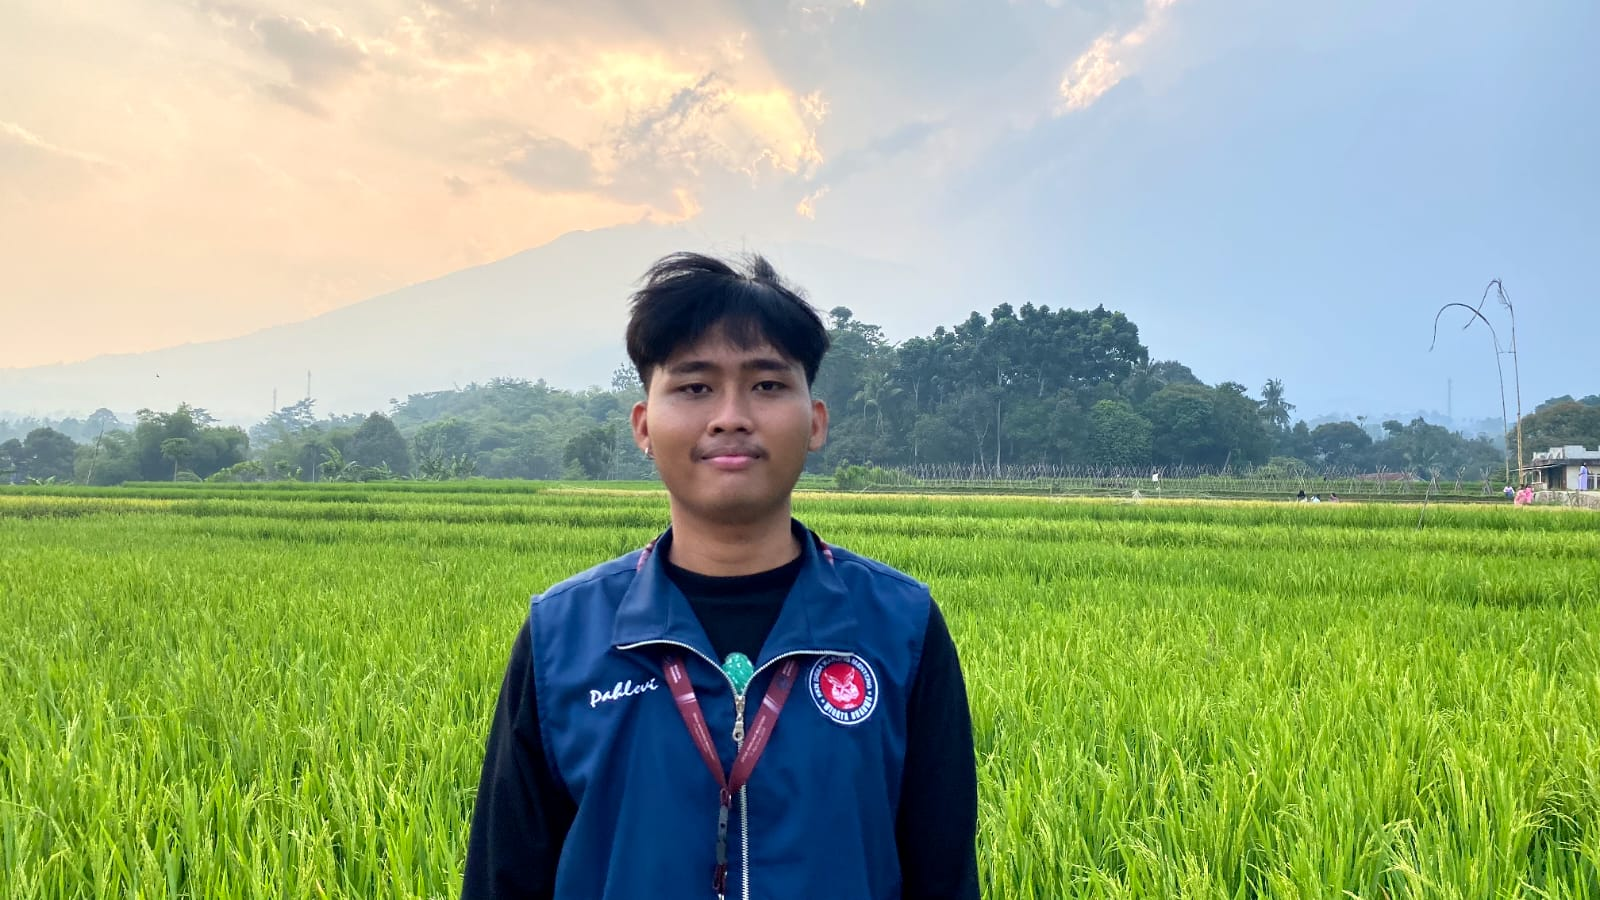
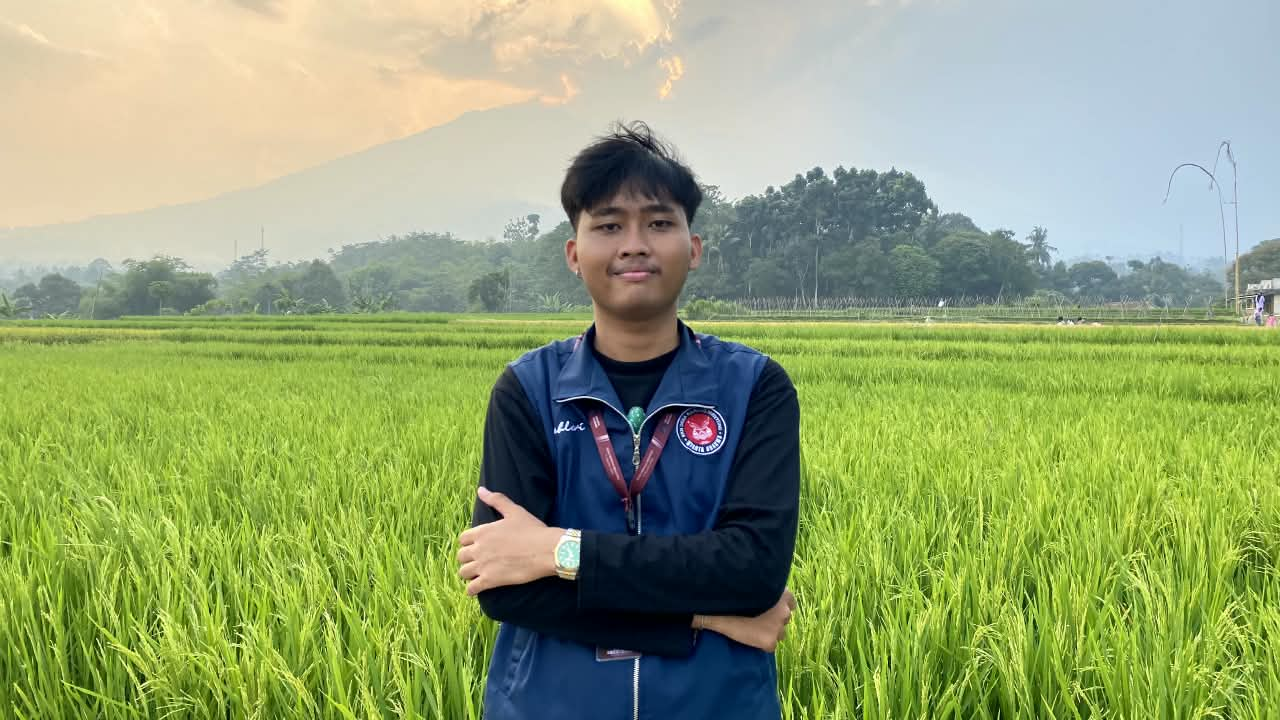
Update data dan foto anggota KKN

diff --git a/src/components/kkn/KKNDivisionView.tsx b/src/components/kkn/KKNDivisionView.tsx
@@ -33,6 +33,13 @@ import avatarDefran from '../../assets/images/Defran_KKN.jpeg';
 import avatarIkmal from '../../assets/images/Ikmal_KKN.jpeg';
 import avatarPahlepi from '../../assets/images/Pahlepi_KKN.jpeg';
 import avatarRisna from '../../assets/images/Risna_KKN.jpeg';
+import avatarIyoh from '../../assets/images/Iyoh_KKN.jpeg';
+import avatarNana from '../../assets/images/Nana_KKN.jpeg';
+import avatarGiry from '../../assets/images/Giry_KKN.jpeg';
+import avatarArifin from '../../assets/images/Arifin_KKN.jpeg';
+import avatarYudha from '../../assets/images/Yudha_KKN.jpeg';
+import avatarQomar from '../../assets/images/Qomar_KKN.jpeg';
+import avatarAisyah from '../../assets/images/Aisyah_KKN.jpeg';
 import avatarMale2 from '../../assets/images/kkn_avatar_male2_1788605278034.jpg';
 import avatarMale3 from '../../assets/images/kkn_avatar_male3_1788605294027.jpg';
 
@@ -237,7 +244,7 @@ const DIVISIONS_DATA: Record<DivisionType, DivisionConfig> = {
         role: 'Koordinator HUMAS',
         quote: 'Humas bukan sekadar bicara, tapi tentang membangun citra dan kepercayaan bersama.',
         prodi: 'Ilmu Hukum',
-        photo: 'https://images.unsplash.com/photo-1506794778202-cad84cf45f1d?w=300&auto=format&fit=crop&q=80',
+        photo: avatarArifin,
         gender: 'm'
       },
       {
@@ -247,7 +254,7 @@ const DIVISIONS_DATA: Record<DivisionType, DivisionConfig> = {
         role: 'Anggota HUMAS',
         quote: 'Komunikasi yang baik adalah kunci membangun hubungan yang kuat dan kepercayaan yang tulus.',
         prodi: 'Ilmu Hukum',
-        photo: avatarMale3,
+        photo: avatarGiry,
         gender: 'm'
       },
       {
@@ -257,7 +264,7 @@ const DIVISIONS_DATA: Record<DivisionType, DivisionConfig> = {
         role: 'Anggota HUMAS',
         quote: 'Kreatif dalam ide, komunikatif dalam aksi, berdampak untuk negeri.',
         prodi: 'Sejarah Peradaban Islam',
-        photo: 'https://images.unsplash.com/photo-1573496359142-b8d87734a5a2?w=300&auto=format&fit=crop&q=80',
+        photo: avatarIyoh,
         gender: 'f'
       },
       {
@@ -267,7 +274,7 @@ const DIVISIONS_DATA: Record<DivisionType, DivisionConfig> = {
         role: 'Anggota HUMAS',
         quote: 'Membangun koneksi, mempererat sinergi, dan mengabdi dengan sepenuh hati.',
         prodi: 'Sejarah Peradaban Islam',
-        photo: 'https://images.unsplash.com/photo-1544005313-94ddf0286df2?w=300&auto=format&fit=crop&q=80',
+        photo: avatarNana,
         gender: 'f'
       }
     ]
@@ -290,7 +297,7 @@ const DIVISIONS_DATA: Record<DivisionType, DivisionConfig> = {
         role: 'Koordinator MEDIA',
         quote: 'Dokumentasi hari ini, menjadi cerita berharga untuk masa depan.',
         prodi: 'Teknik Informatika',
-        photo: 'https://images.unsplash.com/photo-1507003211169-0a1dd7228f2d?w=300&auto=format&fit=crop&q=80',
+        photo: avatarQomar,
         gender: 'm'
       },
       {
@@ -300,7 +307,7 @@ const DIVISIONS_DATA: Record<DivisionType, DivisionConfig> = {
         role: 'Anggota MEDIA',
         quote: 'Menyampaikan informasi dengan kreatif, mendokumentasikan momen dengan penuh makna.',
         prodi: 'Teknik Informatika',
-        photo: avatarMale2,
+        photo: avatarYudha,
         gender: 'm'
       },
       {
@@ -310,7 +317,7 @@ const DIVISIONS_DATA: Record<DivisionType, DivisionConfig> = {
         role: 'Anggota MEDIA',
         quote: 'Kreativitas dalam setiap karya, informasi dalam setiap langkah.',
         prodi: 'Ilmu Hukum',
-        photo: 'https://images.unsplash.com/photo-1534528741775-53994a69daeb?w=300&auto=format&fit=crop&q=80',
+        photo: avatarAisyah,
         gender: 'f'
       }
     ]
